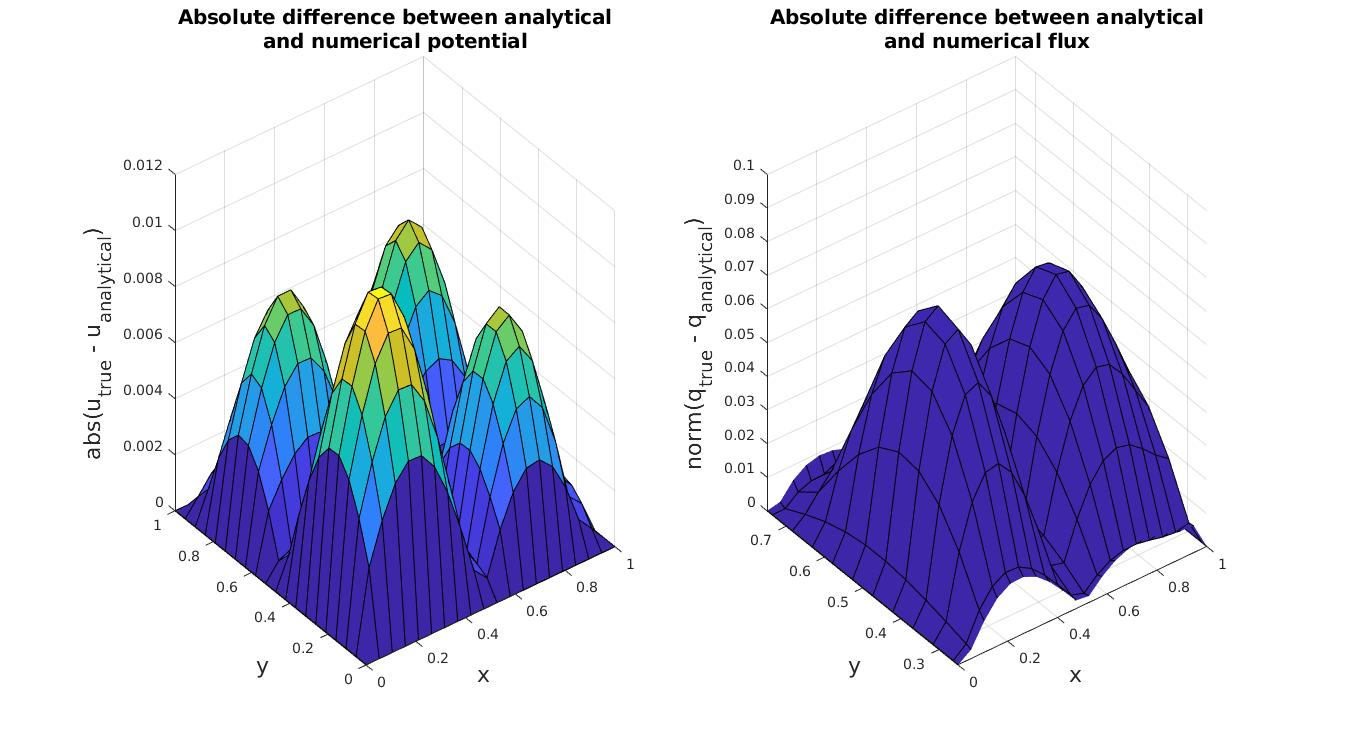
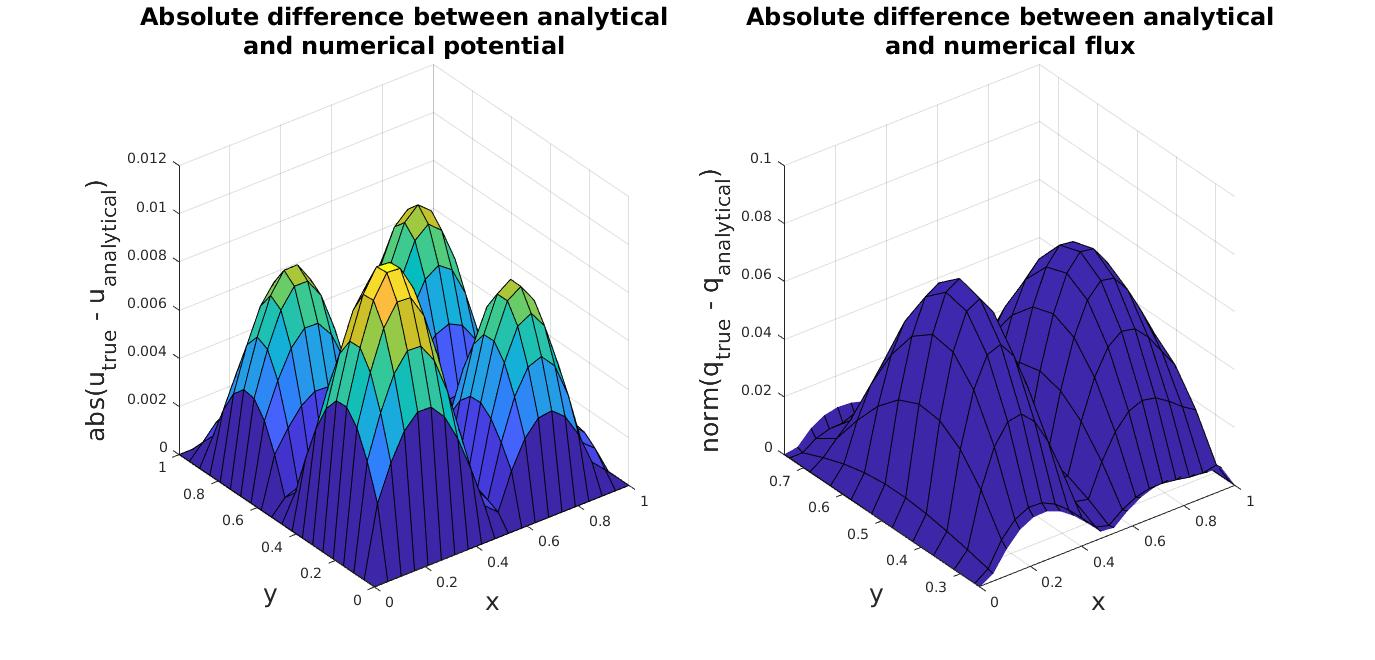
relative difference

diff --git a/computations2D.m b/computations2D.m
@@ -75,12 +75,12 @@ if flag == 0
     figure(1);
     subplot(1,2,1);
     U = reshape(u_fabricated_vect,nx,ny);
-    surf(X,Y, abs(U-V));
-    axis([0 1 0 1])
-    xlabel('x', 'FontSize', 16);
-    ylabel('y', 'FontSize', 16);
-    zlabel('abs(u_{true} - u_{analytical})', 'FontSize', 16);
-    title({'Absolute difference between analytical','and numerical potential'},'FontSize',14)
+    surf(X,Y, abs(U-V)./abs(U));
+    axis([0.1 0.9 0.1 0.9 0 0.04])
+    xlabel('x', 'FontSize', 18);
+    ylabel('y', 'FontSize', 18);
+    zlabel('Relative difference', 'FontSize', 18);
+    title({'Relative difference between analytical','and numerical potential'},'FontSize',17)
     subplot(1,2,2);
     q_1 = q_fabricated{1}(cells(:,1),cells(:,2));
     q_2 = q_fabricated{2}(cells(:,1),cells(:,2));
@@ -88,28 +88,31 @@ if flag == 0
     [r_1, r_2] = flux(G,K,v,cells,nx,ny);
     R = [r_1, r_2];
     norm_vector = zeros(400,1);
+    norm_r = zeros(400,1);
     for i = 1:400
-        norm_vector(i) = norm(q_1(i)-r_1(i),1);
+        norm_vector(i) = norm(q_1(i)-r_1(i),2);
+        norm_r(i) = norm(q_1(i),2);
     end
     norma = reshape(norm_vector, nx, ny);
     surf(X,Y, norma);
     axis([0 1 0.25 0.75 0 0.1])
-    xlabel('x', 'FontSize', 16);
-    ylabel('y', 'FontSize', 16);
-    zlabel('norm(q_{true} - q_{analytical})', 'FontSize', 16);
-    title({'Absolute difference between analytical','and numerical flux'},'FontSize',14)
+    xlabel('x', 'FontSize', 18);
+    ylabel('y', 'FontSize', 18);
+    zlabel('Relative difference', 'FontSize', 18);
+    title({'Relative difference between analytical','and numerical flux'},'FontSize',17)
 
 else
+    figure(2)
     loglog(grid_refinery, 3*majorant_values, '-o');
     hold on
     loglog(grid_refinery, majorant_values, '-o');
     loglog(grid_refinery, star_norm_values, '-o');
     loglog(grid_refinery, convergence_error, '-o');
     loglog(grid_refinery, energy_norm_values, '-o');
-    title('Error comparison');
-    legend({'3Majorant', 'Majorant', 'Star norm', 'Real error', 'Energy norm'}, 'Location','northwest')
-    xlabel('\Delta x')
-    ylabel('Error')
+    title('Error comparison', 'FontSize', 24);
+    legend({'3Majorant', 'Majorant', 'Star norm', 'Real error', 'Energy norm'}, 'Location','northwest', 'FontSize', 16)
+    xlabel('\Delta x', 'FontSize', 24)
+    ylabel('Error', 'FontSize', 24)
     hold off
     P = polyfit(log(grid_refinery), log(convergence_error),1);
     slope = P(1);

diff --git a/presentation/diapos/diapos.tex b/presentation/diapos/diapos.tex
@@ -233,7 +233,7 @@ For the two cases the estimate in the energy norm is as follows:
 \frametitle{Results in 2D}
 \begin{figure}
 \centering
-\includegraphics[width = 0.9\linewidth]{../../Images/absnorm.jpg}
+\includegraphics[width = 0.9\linewidth]{../../Images/relativeerror.jpg}
 \caption{$f(x,y) = 8\pi^2\sin{2\pi x}\sin{2\pi y}k(x,y) - 2\pi\cos{2\pi x}\sin{2\pi y}(y-1)$ $+ 2\pi\sin{2\pi x}\cos{2\pi y}(x-1) $ and 
 $k(x,y) = 1 + (x-1)(y-1)$}
 \end{figure}	
